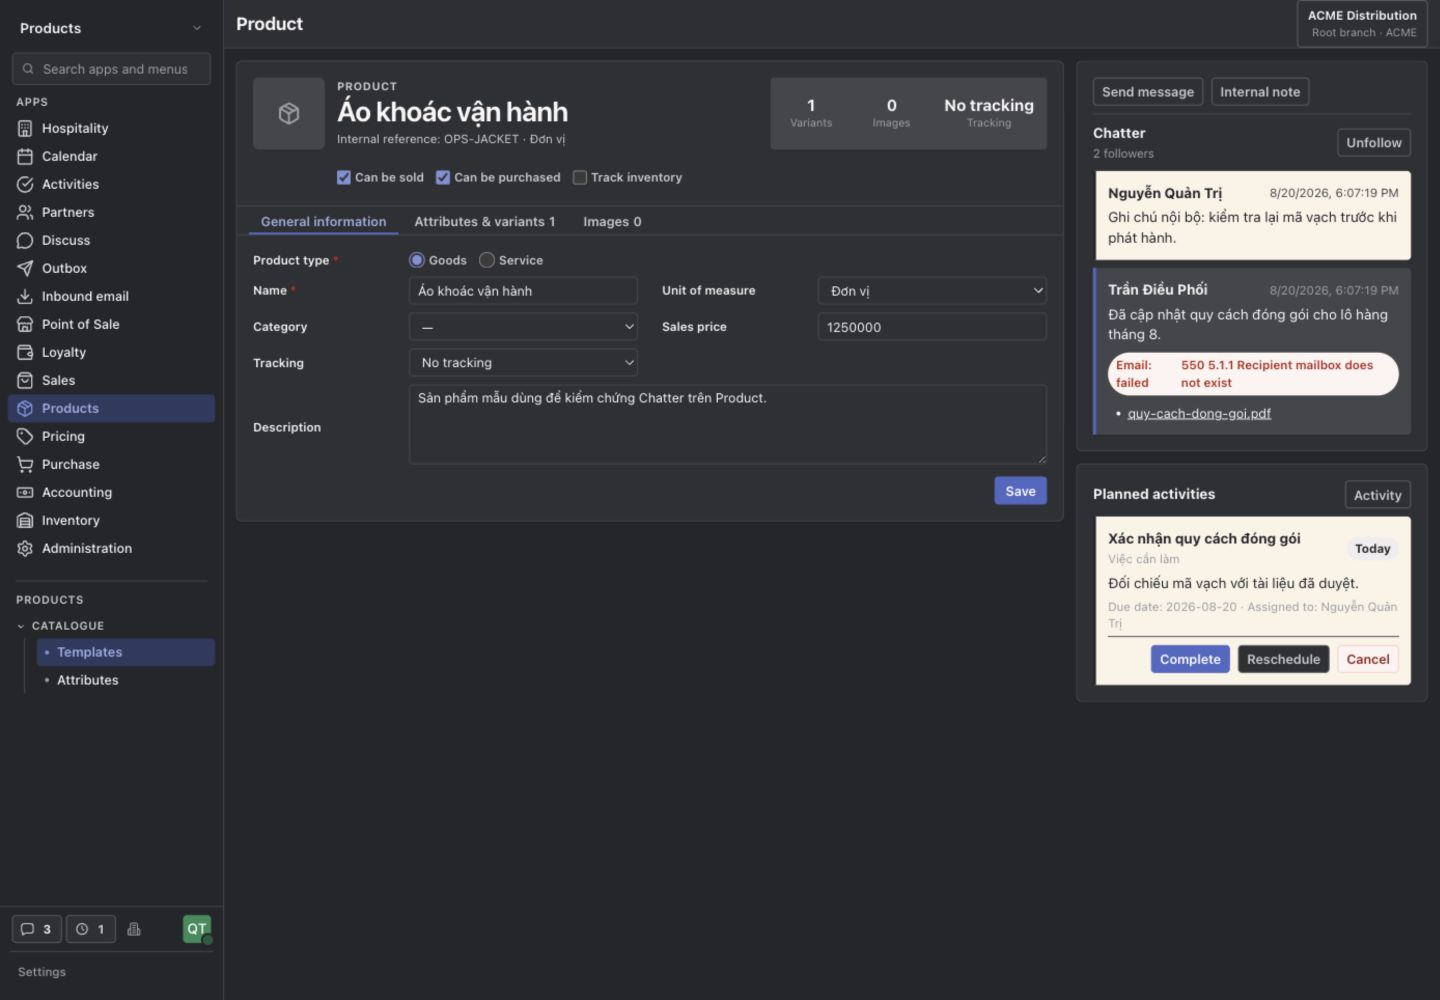
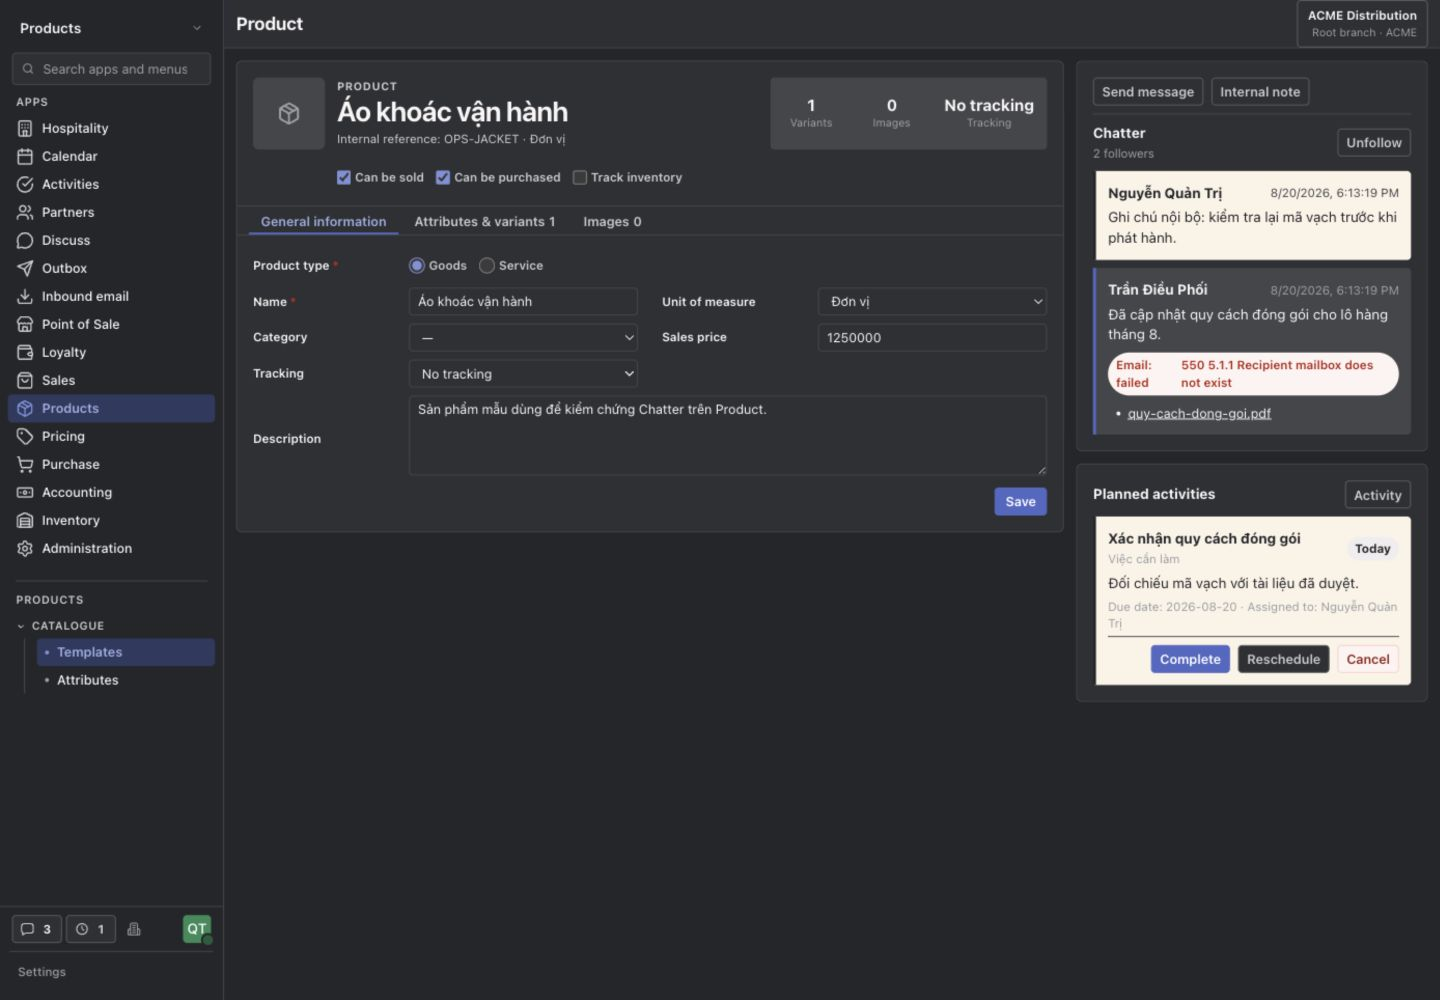
fix(ketsuite): align product form grid rows

diff --git a/tools/collaboration-browser-e2e.ts b/tools/collaboration-browser-e2e.ts
@@ -434,6 +434,7 @@ try {
             headerToggles: document.querySelectorAll('[data-ui="record-header"] [data-ui="record-toggle"]').length,
             bodyType: document.querySelectorAll('[data-ui="record-body"] [name="type"]').length,
             bodyToggles: document.querySelectorAll('[data-ui="record-body"] input[type="checkbox"]').length,
+            gridRowsAtLeast28: Array.from(document.querySelectorAll('[data-ui="record-body"] [data-ui="form-grid"] > [data-ui="form-field"]')).every((field) => field.getBoundingClientRect().height >= 28),
             collaborationNarrower: document.querySelector('[data-ui="record-aside"]').getBoundingClientRect().width < document.querySelector('[data-ui="record-sheet"]').getBoundingClientRect().width,
             statusesAligned: (() => {
               const items = Array.from(document.querySelectorAll('[data-ui="record-badges"] > *'))
@@ -451,6 +452,7 @@ try {
           headerToggles: 3,
           bodyType: 2,
           bodyToggles: 0,
+          gridRowsAtLeast28: true,
           collaborationNarrower: true,
           statusesAligned: true,
           statusesSpaced: true,

diff --git a/test/backend-ui.test.ts b/test/backend-ui.test.ts
@@ -482,6 +482,7 @@ test('style safety: hidden content has no box and adjacent record controls use a
   assert.match(css, /:where\(\[hidden\]\)\s*{\s*display:\s*none !important;/)
   assert.match(css, /\[data-ui="record-badges"\][\s\S]*?gap:\s*var\(--admin-gap\);/)
   assert.match(css, /\[data-ui="tab"\][\s\S]*?padding-block-start:\s*0\.25rem;/)
+  assert.match(css, /\[data-ui="form-field"\]\s*{[\s\S]*?min-block-size:\s*var\(--admin-control-height\);/)
   assert.match(
     css,
     /@media \(min-width: 96rem\)[\s\S]*?grid-template-columns:\s*minmax\(0, 2fr\) minmax\(32rem, 1fr\);/,

diff --git a/packages/ketsuite/src/modules/backend/design/admin.css b/packages/ketsuite/src/modules/backend/design/admin.css
@@ -2862,6 +2862,7 @@
   [data-ui="form-field"] {
     display: grid;
     min-inline-size: 0;
+    min-block-size: var(--admin-control-height);
     gap: 0.125rem;
   }
   [data-ui="form-field"][data-span="full"] {
